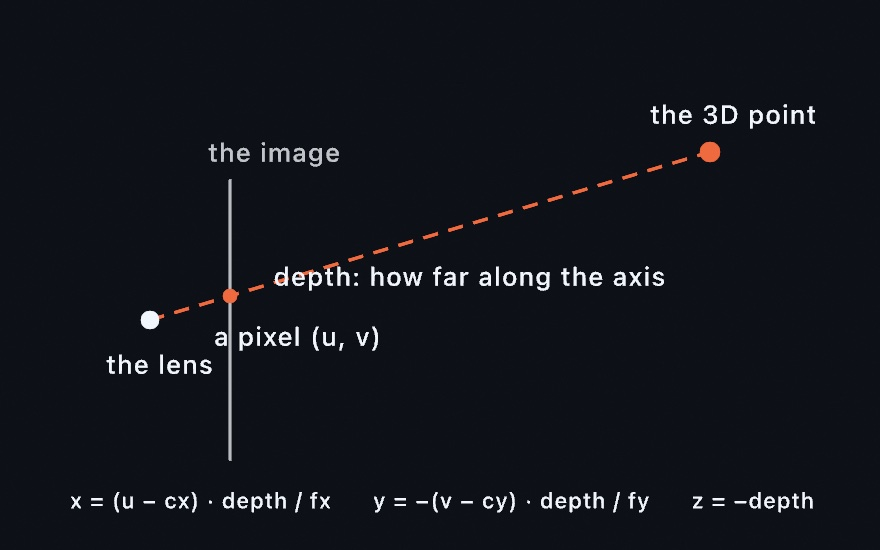
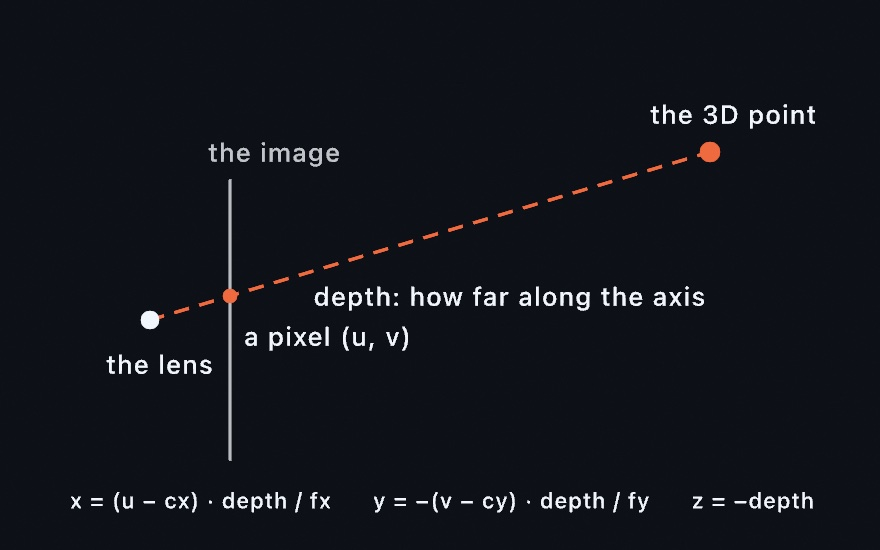
The unprojection diagram's labels clear the ray and the image line, in both themes. The depth label sat centered under the ray's midpoint, and since the ray climbs to the right, its left end ran across the dashes; it moves 40 pixels right and 20 down, which leaves it under the ray along its whole le
Claude-Session: https://claude.ai/code/session_01WqLtBAH3GLezrn1E1FY2W7

Changed region(s): [[0.3068, 0.4945, 0.7977, 0.5564], [0.2455, 0.5873, 0.4602, 0.6491]]

diff --git a/Guide/Figures/33-DepthAndThePhone/Unproject.swift b/Guide/Figures/33-DepthAndThePhone/Unproject.swift
@@ -52,11 +52,11 @@ final class Unproject: Sketch {
         fill(ink)
         textSize(26)
         textAlign(.center, .middle)
-        drawText("depth: how far along the axis", mid.x, mid.y + 52)
+        drawText("depth: how far along the axis", mid.x + 40, mid.y + 72)
         textAlign(.left, .middle)
         drawText("the 3D point", point.x - 60, point.y - 38)
         drawText("the lens", lens.x - 44, lens.y + 44)
-        drawText("a pixel (u, v)", pixel.x - 16, pixel.y + 40)
+        drawText("a pixel (u, v)", pixel.x + 14, pixel.y + 40)
         fill(ink.withAlpha(0.6))
         drawText("the image", 208, 152)
 
